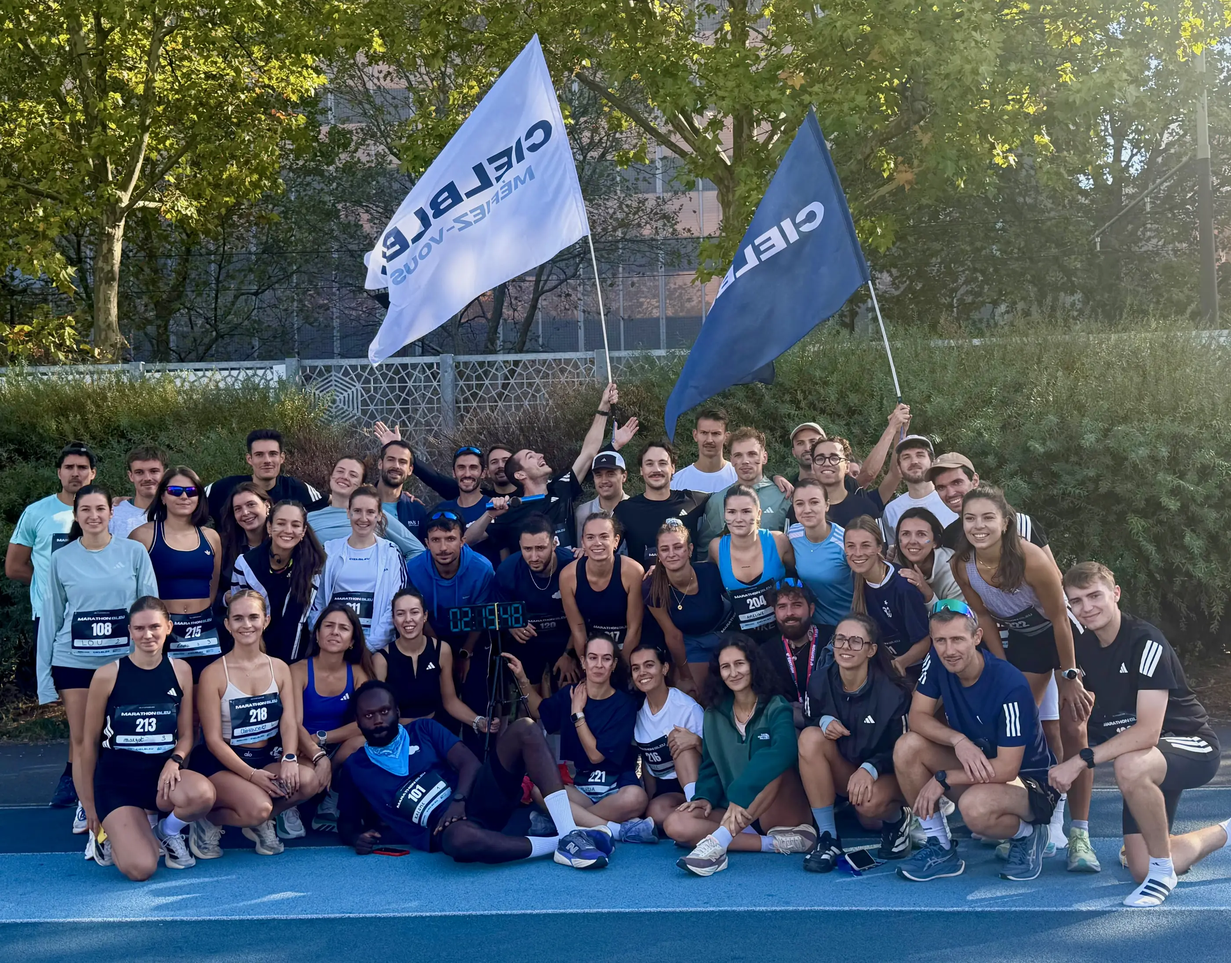
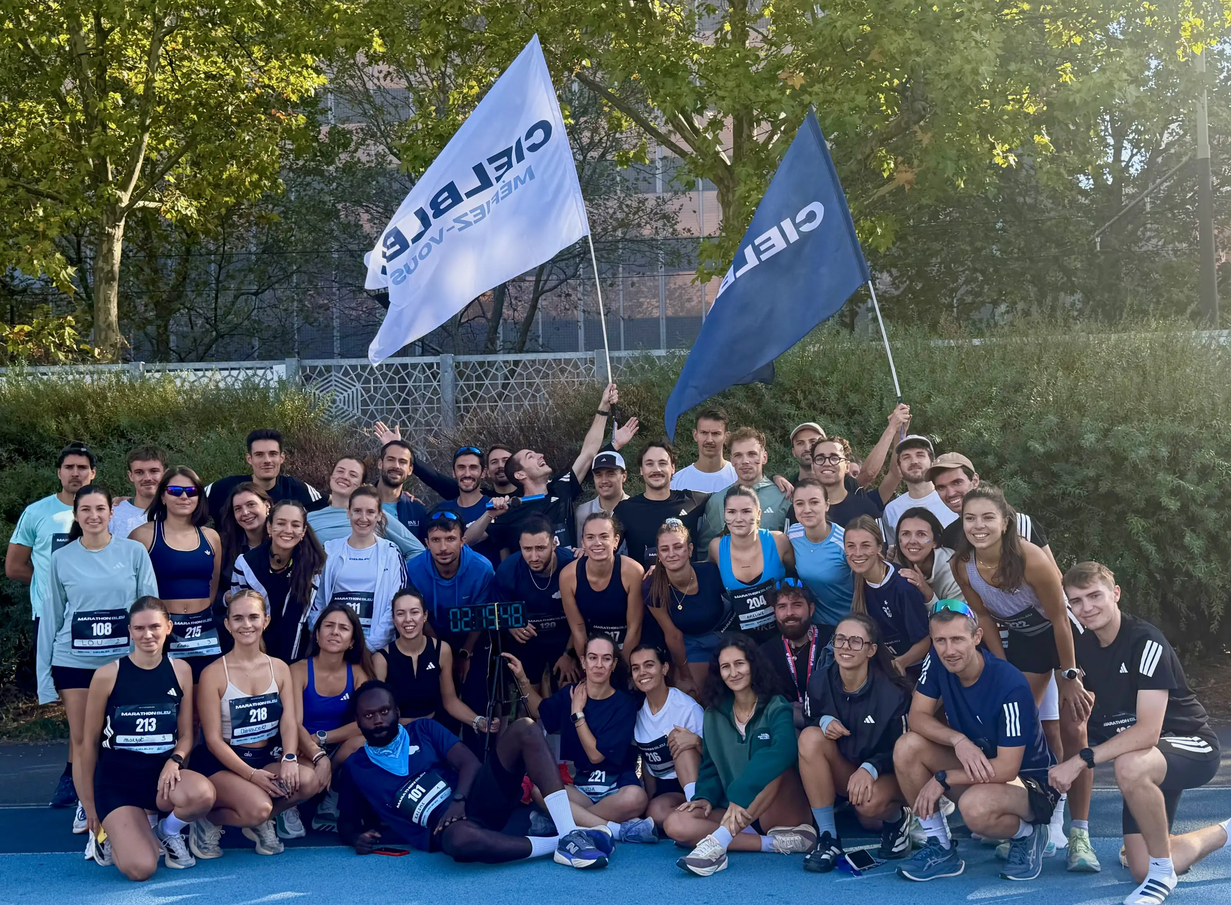
Bannière ordinateur : drapeaux entiers et groupe complet
Les deux demandes semblaient incompatibles : sur un écran large, la photo
est plus haute que le cadre, on perdait 226 px de hauteur. Remonter le
groupe coupait le haut des drapeaux, montrer les drapeaux coupait les
pieds.

En retirant la bande de piste vide sous le groupe, le rapport de l'image
passe de 1,28 à 1,36 et la perte tombe à 159 px. Les deux tiennent
désormais dans le cadre, position verticale au centre.

Le fichier 2800 px y gagne même 42 Ko. Mobile inchangé. URL en ?v=5.

diff --git a/index.html b/index.html
@@ -94,7 +94,7 @@ nav{position:fixed;top:0;left:0;right:0;z-index:100;display:flex;align-items:cen
 
 .hero{min-height:100vh;background:var(--navy-deep);display:flex;flex-direction:column;justify-content:center;padding:150px 60px 0;position:relative;overflow:hidden;}
 .hero::before{content:'';position:absolute;inset:0;z-index:1;background:linear-gradient(80deg,rgba(11,29,48,.97) 0%,rgba(11,29,48,.85) 38%,rgba(11,29,48,.58) 68%,rgba(18,43,68,.42) 100%),linear-gradient(to top,rgba(11,29,48,.92) 0%,rgba(11,29,48,.35) 30%,rgba(11,29,48,.1) 55%);}
-.hero-bg-img{position:absolute;inset:0;width:100%;height:100%;object-fit:cover;object-position:center 80%;pointer-events:none;z-index:0;opacity:.8;}
+.hero-bg-img{position:absolute;inset:0;width:100%;height:100%;object-fit:cover;object-position:center 50%;pointer-events:none;z-index:0;opacity:.8;}
 .hero > *:not(.hero-bg-img):not(picture){position:relative;z-index:2;}
 .hero > picture{position:static;}
 .hero-eyebrow{font-family:'Bebas Neue',sans-serif;font-size:22px;letter-spacing:5px;color:var(--blue-sky);margin-bottom:22px;animation:fadeUp .8s ease both;text-shadow:0 1px 12px rgba(11,29,48,.8);}
@@ -536,10 +536,10 @@ section.kmbleu{background:linear-gradient(160deg,var(--navy-deep) 0%,var(--navy)
        le navigateur ne télécharge qu'un seul fichier, adapté à l'écran et à sa densité. -->
   <picture>
     <source media="(max-width:768px)"
-            srcset="hero-marathon-mobile-900.webp?v=4 900w, hero-marathon-mobile-1400.webp?v=4 1400w"
+            srcset="hero-marathon-mobile-900.webp?v=5 900w, hero-marathon-mobile-1400.webp?v=5 1400w"
             sizes="100vw">
-    <img src="hero-marathon-1600.webp?v=4"
-         srcset="hero-marathon-1600.webp?v=4 1600w, hero-marathon-2800.webp?v=4 2800w"
+    <img src="hero-marathon-1600.webp?v=5"
+         srcset="hero-marathon-1600.webp?v=5 1600w, hero-marathon-2800.webp?v=5 2800w"
          sizes="100vw" alt="" class="hero-bg-img" fetchpriority="high">
   </picture>
   <div class="hero-eyebrow">Running Club · Paris</div>
